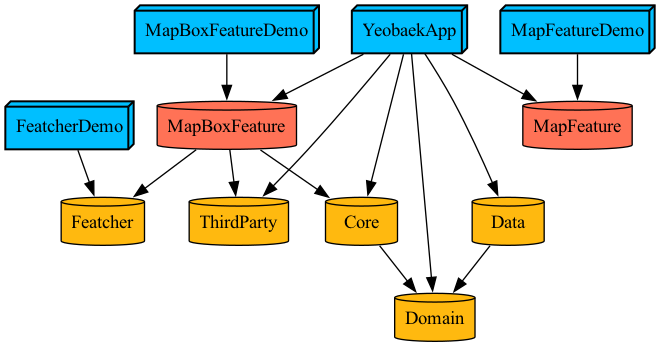
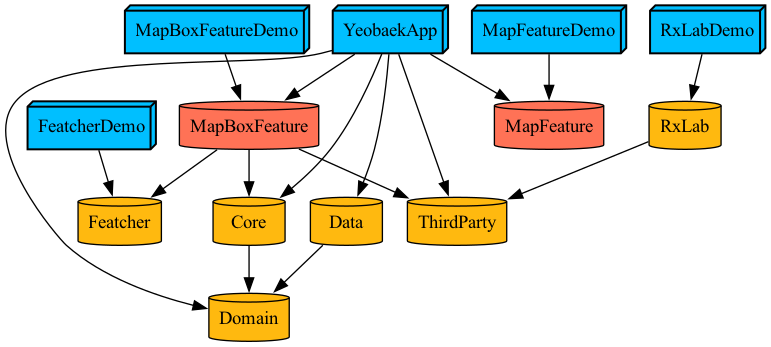
feat: rxlab 모듈 생성

diff --git a/Projects/Shared/RxLab/Sources/RxLab/RxLabCounterViewController.swift b/Projects/Shared/RxLab/Sources/RxLab/RxLabCounterViewController.swift
@@ -1,0 +1,164 @@
+import ThirdParty
+import UIKit
+
+/// RxSwift Input/Output MVVM 카운터를 표시하는 UIKit 화면입니다.
+public final class RxLabCounterViewController: UIViewController {
+    /// 버튼 입력을 카운터 상태로 변환하는 ViewModel입니다.
+    private let viewModel: RxLabCounterViewModel
+
+    /// ViewController가 가진 Rx 구독의 수명을 관리합니다.
+    private let disposeBag = DisposeBag()
+
+    /// 현재 카운터 값을 크게 표시합니다.
+    private let countLabel: UILabel = {
+        let label = UILabel()
+        label.font = .monospacedDigitSystemFont(ofSize: 104, weight: .bold)
+        label.textColor = UIColor(red: 0.12, green: 0.16, blue: 0.18, alpha: 1)
+        label.textAlignment = .center
+        label.adjustsFontSizeToFitWidth = true
+        label.minimumScaleFactor = 0.5
+        label.accessibilityIdentifier = "rx-lab-counter-value"
+        return label
+    }()
+
+    /// 카운터 값을 1만큼 줄이는 버튼입니다.
+    private let decrementButton: UIButton = {
+        var configuration = UIButton.Configuration.filled()
+        configuration.title = "감소"
+        configuration.image = UIImage(systemName: "minus")
+        configuration.imagePadding = 8
+        configuration.cornerStyle = .capsule
+        configuration.baseBackgroundColor = UIColor(red: 0.16, green: 0.35, blue: 0.38, alpha: 1)
+        let button = UIButton(configuration: configuration)
+        button.accessibilityIdentifier = "rx-lab-counter-decrement"
+        return button
+    }()
+
+    /// 카운터 값을 처음 값으로 되돌리는 버튼입니다.
+    private let resetButton: UIButton = {
+        var configuration = UIButton.Configuration.gray()
+        configuration.title = "초기화"
+        configuration.cornerStyle = .capsule
+        let button = UIButton(configuration: configuration)
+        button.accessibilityIdentifier = "rx-lab-counter-reset"
+        return button
+    }()
+
+    /// 카운터 값을 1만큼 늘리는 버튼입니다.
+    private let incrementButton: UIButton = {
+        var configuration = UIButton.Configuration.filled()
+        configuration.title = "증가"
+        configuration.image = UIImage(systemName: "plus")
+        configuration.imagePadding = 8
+        configuration.cornerStyle = .capsule
+        configuration.baseBackgroundColor = UIColor(red: 0.94, green: 0.38, blue: 0.18, alpha: 1)
+        let button = UIButton(configuration: configuration)
+        button.accessibilityIdentifier = "rx-lab-counter-increment"
+        return button
+    }()
+
+    /// RxLab 카운터 화면에 사용할 ViewModel을 주입합니다.
+    ///
+    /// - Parameter viewModel: 버튼 입력과 카운터 출력을 연결할 ViewModel입니다.
+    public init(
+        viewModel: RxLabCounterViewModel = RxLabCounterViewModel()
+    ) {
+        self.viewModel = viewModel
+        super.init(nibName: nil, bundle: nil)
+    }
+
+    /// Storyboard 생성을 지원하지 않는 코드 기반 화면입니다.
+    ///
+    /// - Parameter coder: Storyboard가 전달하는 디코더입니다.
+    @available(*, unavailable)
+    required init?(
+        coder: NSCoder
+    ) {
+        fatalError("init(coder:) has not been implemented")
+    }
+
+    /// 카운터 UI를 배치하고 Rx Input과 Output을 연결합니다.
+    public override func viewDidLoad() {
+        super.viewDidLoad()
+        configureView()
+        bindViewModel()
+    }
+
+    /// 실험 화면의 제목, 카운터 카드, 조작 버튼을 배치합니다.
+    private func configureView() {
+        view.backgroundColor = UIColor(red: 0.96, green: 0.94, blue: 0.87, alpha: 1)
+
+        let eyebrowLabel = UILabel()
+        eyebrowLabel.text = "RX LAB"
+        eyebrowLabel.font = .systemFont(ofSize: 14, weight: .heavy)
+        eyebrowLabel.textColor = UIColor(red: 0.94, green: 0.38, blue: 0.18, alpha: 1)
+        eyebrowLabel.textAlignment = .center
+
+        let titleLabel = UILabel()
+        titleLabel.text = "Input이 들어오면\nOutput이 바뀌어요"
+        titleLabel.font = .systemFont(ofSize: 30, weight: .bold)
+        titleLabel.textColor = UIColor(red: 0.12, green: 0.16, blue: 0.18, alpha: 1)
+        titleLabel.textAlignment = .center
+        titleLabel.numberOfLines = 0
+
+        let buttonStack = UIStackView(
+            arrangedSubviews: [decrementButton, resetButton, incrementButton]
+        )
+        buttonStack.axis = .horizontal
+        buttonStack.distribution = .fillEqually
+        buttonStack.spacing = 10
+
+        let contentStack = UIStackView(
+            arrangedSubviews: [eyebrowLabel, titleLabel, countLabel, buttonStack]
+        )
+        contentStack.translatesAutoresizingMaskIntoConstraints = false
+        contentStack.axis = .vertical
+        contentStack.spacing = 24
+
+        let cardView = UIView()
+        cardView.translatesAutoresizingMaskIntoConstraints = false
+        cardView.backgroundColor = .white
+        cardView.layer.cornerRadius = 32
+        cardView.layer.shadowColor = UIColor.black.cgColor
+        cardView.layer.shadowOpacity = 0.1
+        cardView.layer.shadowRadius = 24
+        cardView.layer.shadowOffset = CGSize(width: 0, height: 12)
+        cardView.addSubview(contentStack)
+        view.addSubview(cardView)
+
+        NSLayoutConstraint.activate([
+            cardView.centerYAnchor.constraint(equalTo: view.centerYAnchor),
+            cardView.leadingAnchor.constraint(equalTo: view.safeAreaLayoutGuide.leadingAnchor, constant: 24),
+            cardView.trailingAnchor.constraint(equalTo: view.safeAreaLayoutGuide.trailingAnchor, constant: -24),
+            contentStack.leadingAnchor.constraint(equalTo: cardView.leadingAnchor, constant: 24),
+            contentStack.trailingAnchor.constraint(equalTo: cardView.trailingAnchor, constant: -24),
+            contentStack.topAnchor.constraint(equalTo: cardView.topAnchor, constant: 36),
+            contentStack.bottomAnchor.constraint(equalTo: cardView.bottomAnchor, constant: -36),
+            countLabel.heightAnchor.constraint(greaterThanOrEqualToConstant: 132),
+            buttonStack.heightAnchor.constraint(equalToConstant: 52),
+        ])
+    }
+
+    /// 버튼의 ControlEvent를 Input으로 전달하고 Driver를 UIKit에 연결합니다.
+    private func bindViewModel() {
+        let output = viewModel.transform(
+            input: RxLabCounterViewModel.Input(
+                decrementTapped: decrementButton.rx.tap.asObservable(),
+                resetTapped: resetButton.rx.tap.asObservable(),
+                incrementTapped: incrementButton.rx.tap.asObservable()
+            )
+        )
+
+        output.countText
+            .drive(countLabel.rx.text)
+            .disposed(by: disposeBag)
+
+        output.isDecrementEnabled
+            .drive(decrementButton.rx.isEnabled)
+            .disposed(by: disposeBag)
+
+        output.isResetEnabled
+            .drive(resetButton.rx.isEnabled)
+            .disposed(by: disposeBag)
+    }
+}

diff --git a/Projects/Shared/RxLab/Sources/RxLab/RxLabCounterViewModel.swift b/Projects/Shared/RxLab/Sources/RxLab/RxLabCounterViewModel.swift
@@ -1,0 +1,99 @@
+import ThirdParty
+
+/// 카운터 입력을 화면 상태로 변환하는 Input/Output MVVM 예제입니다.
+public final class RxLabCounterViewModel {
+    /// ViewController가 ViewModel에 전달하는 사용자 입력입니다.
+    public struct Input {
+        /// 감소 버튼을 누른 이벤트입니다.
+        public let decrementTapped: Observable<Void>
+
+        /// 초기화 버튼을 누른 이벤트입니다.
+        public let resetTapped: Observable<Void>
+
+        /// 증가 버튼을 누른 이벤트입니다.
+        public let incrementTapped: Observable<Void>
+
+        /// 카운터를 조작하는 사용자 입력 스트림을 만듭니다.
+        ///
+        /// - Parameters:
+        ///   - decrementTapped: 감소 버튼을 누른 이벤트입니다.
+        ///   - resetTapped: 초기화 버튼을 누른 이벤트입니다.
+        ///   - incrementTapped: 증가 버튼을 누른 이벤트입니다.
+        public init(
+            decrementTapped: Observable<Void>,
+            resetTapped: Observable<Void>,
+            incrementTapped: Observable<Void>
+        ) {
+            self.decrementTapped = decrementTapped
+            self.resetTapped = resetTapped
+            self.incrementTapped = incrementTapped
+        }
+    }
+
+    /// ViewController가 화면에 연결하는 상태 출력입니다.
+    public struct Output {
+        /// 화면에 표시할 카운터 문자열입니다.
+        public let countText: Driver<String>
+
+        /// 감소 버튼을 사용할 수 있는지 나타냅니다.
+        public let isDecrementEnabled: Driver<Bool>
+
+        /// 초기화 버튼을 사용할 수 있는지 나타냅니다.
+        public let isResetEnabled: Driver<Bool>
+    }
+
+    /// 카운터 값을 바꾸는 사용자 동작입니다.
+    private enum Action {
+        case decrement
+        case reset
+        case increment
+    }
+
+    /// 카운터가 시작하고 초기화될 기준값입니다.
+    private let initialCount: Int
+
+    /// 지정한 초기값으로 카운터 ViewModel을 만듭니다.
+    ///
+    /// - Parameter initialCount: 카운터가 시작하고 초기화될 값입니다. 음수는 0으로 바꿉니다.
+    public init(
+        initialCount: Int = 0
+    ) {
+        self.initialCount = max(0, initialCount)
+    }
+
+    /// 버튼 입력을 카운터 문자열과 버튼 활성화 상태로 변환합니다.
+    ///
+    /// - Parameter input: 감소, 초기화, 증가 버튼의 입력 스트림입니다.
+    /// - Returns: 화면이 `drive`로 연결할 카운터 상태입니다.
+    public func transform(
+        input: Input
+    ) -> Output {
+        let initialCount = self.initialCount
+        let actions = Observable.merge(
+            input.decrementTapped.map { Action.decrement },
+            input.resetTapped.map { Action.reset },
+            input.incrementTapped.map { Action.increment }
+        )
+        let count = actions
+            .scan(initialCount) { currentCount, action in
+                switch action {
+                case .decrement:
+                    return max(0, currentCount - 1)
+                case .reset:
+                    return initialCount
+                case .increment:
+                    return currentCount + 1
+                }
+            }
+            .startWith(initialCount)
+            .distinctUntilChanged()
+            .share(replay: 1, scope: .whileConnected)
+        let countDriver = count.asDriver(onErrorJustReturn: initialCount)
+
+        return Output(
+            countText: countDriver.map { String($0) },
+            isDecrementEnabled: countDriver.map { $0 > 0 },
+            isResetEnabled: countDriver.map { $0 != initialCount }
+        )
+    }
+}

diff --git a/Projects/Features/MapBoxFeature/Sources/MapBoxFeature/MapBoxFeatureViewController.swift b/Projects/Features/MapBoxFeature/Sources/MapBoxFeature/MapBoxFeatureViewController.swift
@@ -6,11 +6,15 @@ import UIKit
 
 /// Mapbox 지도와 현재 위치 UI를 UIKit으로 표시하고 Rx ViewModel의 출력을 렌더링합니다.
 public final class MapBoxFeatureViewController: UIViewController {
+    // MARK: - Dependencies
+
     /// 자동 위치 요청 여부와 마지막 지도 카메라를 유지하는 상태입니다.
     private let session: MapBoxSession
 
     /// 화면 입력을 위치 조회 상태와 출력으로 변환하는 Rx ViewModel입니다.
     private let viewModel: MapBoxFeatureViewModel
+
+    // MARK: - UI
 
     /// Mapbox 지도와 카메라를 실제로 표시하는 UIKit View입니다.
     private let mapView: MapView
@@ -24,11 +28,15 @@ public final class MapBoxFeatureViewController: UIViewController {
     /// 위치 권한이 거부됐을 때 안내 문구를 표시합니다.
     private let authorizationLabel = UILabel()
 
+    // MARK: - Subscriptions
+
     /// Mapbox 카메라 이벤트 구독의 수명을 관리합니다.
     private var mapboxCancelables = Set<AnyCancelable>()
 
     /// ViewModel Output 구독의 수명을 ViewController와 함께 관리합니다.
     private var disposeBag = DisposeBag()
+
+    // MARK: - Presentation State
 
     /// 동일한 위치 오류 알림을 중복으로 표시하지 않기 위한 식별자입니다.
     private var presentedAlertID: UUID?

diff --git a/Projects/Shared/RxLab/Project.swift b/Projects/Shared/RxLab/Project.swift
@@ -1,0 +1,40 @@
+import ProjectDescription
+
+let project = Project(
+    name: "RxLab",
+    targets: [
+        .target(
+            name: "RxLab",
+            destinations: [.iPhone],
+            product: .framework,
+            bundleId: "com.indextrown.yeobaek.rx-lab",
+            deploymentTargets: .iOS("17.0"),
+            sources: ["Sources/**"],
+            dependencies: [
+                .project(target: "ThirdParty", path: "../ThirdParty"),
+            ],
+            settings: .settings(
+                base: [
+                    "SWIFT_VERSION": "6.0",
+                ]
+            )
+        ),
+        .target(
+            name: "RxLabDemo",
+            destinations: [.iPhone],
+            product: .app,
+            bundleId: "com.indextrown.yeobaek.rx-lab-demo",
+            deploymentTargets: .iOS("17.0"),
+            infoPlist: .default,
+            sources: ["Demo/**"],
+            dependencies: [
+                .target(name: "RxLab"),
+            ],
+            settings: .settings(
+                base: [
+                    "SWIFT_VERSION": "6.0",
+                ]
+            )
+        ),
+    ]
+)

diff --git a/Projects/Shared/RxLab/Sources/RxLab/RxLabCounterView.swift b/Projects/Shared/RxLab/Sources/RxLab/RxLabCounterView.swift
@@ -1,0 +1,27 @@
+import SwiftUI
+
+/// UIKit으로 만든 RxLab 카운터를 SwiftUI Demo에서 실행할 수 있게 감쌉니다.
+@MainActor
+public struct RxLabCounterView: UIViewControllerRepresentable {
+    public init() {}
+
+    /// UIKit 카운터 ViewController를 만듭니다.
+    ///
+    /// - Parameter context: SwiftUI가 전달하는 ViewController 생성 문맥입니다.
+    /// - Returns: Input/Output MVVM 카운터를 표시하는 ViewController입니다.
+    public func makeUIViewController(
+        context: Context
+    ) -> RxLabCounterViewController {
+        RxLabCounterViewController()
+    }
+
+    /// SwiftUI 상태 갱신 시 UIKit 화면에 추가로 반영할 값은 없습니다.
+    ///
+    /// - Parameters:
+    ///   - uiViewController: 현재 표시 중인 카운터 ViewController입니다.
+    ///   - context: SwiftUI가 전달하는 ViewController 갱신 문맥입니다.
+    public func updateUIViewController(
+        _ uiViewController: RxLabCounterViewController,
+        context: Context
+    ) {}
+}

diff --git a/Projects/Shared/ThirdParty/Sources/ThirdParty/ThirdParty.swift b/Projects/Shared/ThirdParty/Sources/ThirdParty/ThirdParty.swift
@@ -1,5 +1,6 @@
-import Foundation
+@_exported import RxCocoa
+@_exported import RxRelay
+@_exported import RxSwift
 
-// Dependency hub for external SDKs. Source files import the concrete modules
-// they use instead of relying on re-exported imports.
+/// 외부 Rx 모듈을 하나의 프로젝트 의존성으로 사용할 수 있게 재노출합니다.
 public enum ThirdPartyModule {}

diff --git a/Workspace.swift b/Workspace.swift
@@ -8,6 +8,7 @@ let workspace = Workspace(
         "Projects/Domain",
         "Projects/Shared/Core",
         "Projects/Shared/Featcher",
+        "Projects/Shared/RxLab",
         "Projects/Shared/ThirdParty",
         "Projects/Features/MapFeature",
         "Projects/Features/MapBoxFeature",

diff --git a/Projects/Shared/RxLab/Demo/RxLabDemoApp.swift b/Projects/Shared/RxLab/Demo/RxLabDemoApp.swift
@@ -1,0 +1,12 @@
+import RxLab
+import SwiftUI
+
+@main
+struct RxLabDemoApp: App {
+    var body: some Scene {
+        WindowGroup {
+            RxLabCounterView()
+                .ignoresSafeArea()
+        }
+    }
+}
